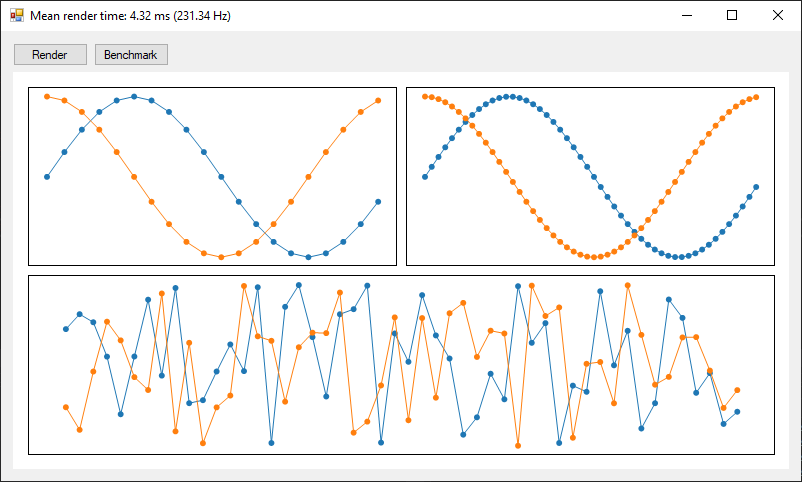
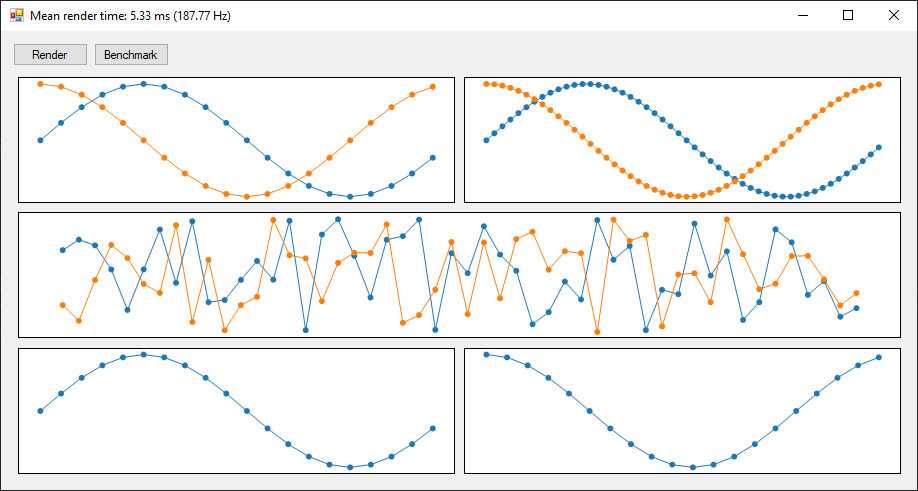
improve layout system

diff --git a/src/QuickPlot/Figure.cs b/src/QuickPlot/Figure.cs
@@ -2,6 +2,7 @@
 using System.Collections.Generic;
 using System.Diagnostics;
 using System.Drawing;
+using System.Linq;
 
 namespace QuickPlot
 {
@@ -19,14 +20,20 @@ namespace QuickPlot
 
         public void Subplot(int nRows, int nCols, int subPlotNumber, int rowSpan = 1, int colSpan = 1)
         {
-            // ensure we have enough plots to get to this subplots
-            while (subplots.Count < subPlotNumber)
-                subplots.Add(new Plot());
+            // activate the plot with this configuration
+            foreach (Plot subplot in subplots)
+            {
+                // TODO: activate the subplot and return
+            }
 
-            // activate this subplot
-            plot = subplots[subPlotNumber - 1];
+            // clear the default plot if it exists
+            if (subplots.Count() > 0)
+                if (subplots.First().subplotPosition.widthFrac == 1 && subplots.First().subplotPosition.widthFrac == 1)
+                    subplots.Clear();
 
-            // note the position of this subplot in the bigger figure (pixel-independent)
+            // if no plot with this configuration exists, create it, activate it, and size it
+            subplots.Add(new Plot());
+            plot = subplots.Last();
             plot.subplotPosition = new PlotSettings.SubplotPosition(nRows, nCols, subPlotNumber, rowSpan, colSpan);
         }
 
@@ -45,21 +52,16 @@ namespace QuickPlot
             // clear the plot
             using (Graphics gfx = Graphics.FromImage(bmp))
             {
-                gfx.Clear(Color.White);
+                gfx.Clear(SystemColors.Control);
             }
 
             // draw each plottable
             foreach (Plot subplot in subplots)
             {
                 // use figure-level settings to determine the plot area for each subplot
-                RectangleF subplotRect = FigureSettings.Layout.GetRectangle(bmp, subplot.subplotPosition, padding);
-                subplot.Render(bmp, subplotRect);
+                //RectangleF subplotRect = FigureSettings.Layout.GetRectangle(bmp, subplot.subplotPosition, padding);
 
-                // outline the plottable
-                using (Graphics gfx = Graphics.FromImage(bmp))
-                {
-                    gfx.DrawRectangle(Pens.Black, subplotRect.X, subplotRect.Y, subplotRect.Width, subplotRect.Height);
-                }
+                subplot.Render(bmp);
             }
         }
 

diff --git a/src/QuickPlot/PlotSettings/SubplotPosition.cs b/src/QuickPlot/PlotSettings/SubplotPosition.cs
@@ -1,25 +1,41 @@
 using System;
 using System.Collections.Generic;
+using System.Drawing;
 using System.Text;
 
 namespace QuickPlot.PlotSettings
 {
     public class SubplotPosition
     {
-        public readonly int subPlotNumber;
-        public readonly int nRows, nCols;
-        public readonly int rowSpan, colSpan;
+        public readonly double widthFrac, heightFrac;
+        public readonly double topFrac, leftFrac;
 
         public SubplotPosition(int nRows, int nCols, int subPlotNumber, int rowSpan = 1, int colSpan = 1)
         {
             if (subPlotNumber < 1)
                 throw new ArgumentException("subplot numbers start at 1");
 
-            this.subPlotNumber = subPlotNumber;
-            this.nRows = nRows;
-            this.nCols = nCols;
-            this.rowSpan = rowSpan;
-            this.colSpan = colSpan;
+            widthFrac = (double)colSpan / nCols;
+            heightFrac = (double)rowSpan / nRows;
+
+            double columnIndex = (subPlotNumber - 1) % nCols;
+            double rowIndex = (subPlotNumber - 1) / nCols;
+
+            leftFrac = columnIndex * widthFrac;
+            topFrac = rowIndex * heightFrac;
+        }
+
+        /// <summary>
+        /// Return the area covered by this subplot
+        /// </summary>
+        public RectangleF GetRectangle(double widthPx, double heightPx)
+        {
+            return new RectangleF(
+                    x: (float)(leftFrac * widthPx),
+                    y: (float)(topFrac * heightPx),
+                    width: (float)(widthFrac * widthPx),
+                    height: (float)(heightFrac * heightPx)
+                );
         }
     }
 }

diff --git a/demos/QuickPlotDemos/Form1.cs b/demos/QuickPlotDemos/Form1.cs
@@ -28,17 +28,23 @@ namespace QuickPlotDemos
         {
             interactivePlot1.figure.Clear();
 
-            interactivePlot1.figure.Subplot(2, 2, 1);
+            interactivePlot1.figure.Subplot(3, 2, 1);
             interactivePlot1.figure.plot.Scatter(QuickPlot.Generate.Consecutative(20), QuickPlot.Generate.Sin(20));
             interactivePlot1.figure.plot.Scatter(QuickPlot.Generate.Consecutative(20), QuickPlot.Generate.Cos(20));
 
-            interactivePlot1.figure.Subplot(2, 2, 2);
+            interactivePlot1.figure.Subplot(3, 2, 2);
             interactivePlot1.figure.plot.Scatter(QuickPlot.Generate.Consecutative(50), QuickPlot.Generate.Sin(50));
             interactivePlot1.figure.plot.Scatter(QuickPlot.Generate.Consecutative(50), QuickPlot.Generate.Cos(50));
 
-            interactivePlot1.figure.Subplot(2, 2, 3, colSpan: 2);
+            interactivePlot1.figure.Subplot(3, 2, 3, colSpan: 2);
             interactivePlot1.figure.plot.Scatter(QuickPlot.Generate.Consecutative(50), QuickPlot.Generate.Random(50, seed: 0));
             interactivePlot1.figure.plot.Scatter(QuickPlot.Generate.Consecutative(50), QuickPlot.Generate.Random(50, seed: 1));
+
+            interactivePlot1.figure.Subplot(3, 2, 5);
+            interactivePlot1.figure.plot.Scatter(QuickPlot.Generate.Consecutative(20), QuickPlot.Generate.Sin(20));
+
+            interactivePlot1.figure.Subplot(3, 2, 6);
+            interactivePlot1.figure.plot.Scatter(QuickPlot.Generate.Consecutative(20), QuickPlot.Generate.Cos(20));
         }
 
         private void BenchmarkedRender()

diff --git a/src/QuickPlot/Plot.cs b/src/QuickPlot/Plot.cs
@@ -11,7 +11,6 @@ namespace QuickPlot
         public PlotSettings.SubplotPosition subplotPosition;
         public PlotSettings.Axes axes;
         public List<Plottables.Plottable> plottables = new List<Plottables.Plottable>();
-        //public PlotSettings.Layout layout = new PlotSettings.Layout();
 
         public Plot()
         {
@@ -42,16 +41,29 @@ namespace QuickPlot
             Debug.WriteLine($"AutoAxis left us with: {axes}");
         }
 
-        public void Render(Bitmap bmp, RectangleF rect)
+        public void Render(Bitmap bmp)
         {
             if (axes == null)
                 AutoAxis();
 
-            axes.SetRect(rect);
+            RectangleF renderArea = subplotPosition.GetRectangle(bmp.Width, bmp.Height);
+            renderArea = Tools.RectangleShrinkBy(renderArea, 5, 5, 5, 5);
+
+            axes.SetRect(renderArea);
+
+            using (Graphics gfx = Graphics.FromImage(bmp))
+            {
+                gfx.FillRectangle(Brushes.White, Rectangle.Round(renderArea));
+            }
 
             for (int i = 0; i < plottables.Count; i++)
             {
                 plottables[i].Render(bmp, axes);
+            }
+
+            using (Graphics gfx = Graphics.FromImage(bmp))
+            {
+                gfx.DrawRectangle(Pens.Black, Rectangle.Round(renderArea));
             }
         }
     }

diff --git a/src/QuickPlot/Tools.cs b/src/QuickPlot/Tools.cs
@@ -31,5 +31,20 @@ namespace QuickPlot
                 gfx.DrawLine(Pens.LightSteelBlue, pt1, pt2);
             }
         }
+
+        public static RectangleF RectangleShrinkBy(RectangleF rect, float left = 0, float right = 0, float bottom = 0, float top = 0)
+        {
+            rect.X += left;
+            rect.Width -= left;
+
+            rect.Width -= right;
+
+            rect.Height -= bottom;
+
+            rect.Y += top;
+            rect.Height -= top;
+
+            return rect;
+        }
     }
 }
